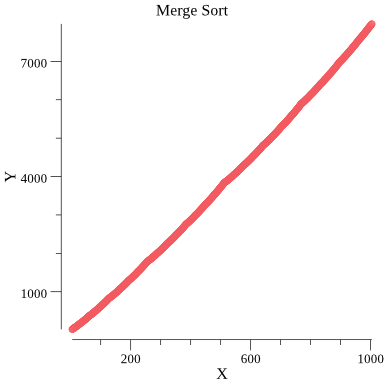
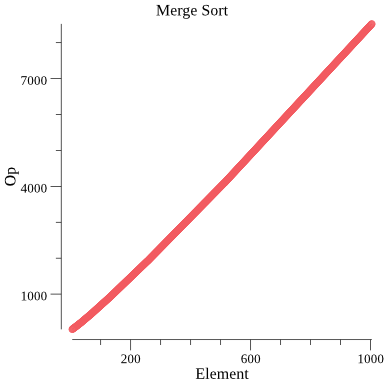
quadratic

diff --git a/quadratic_sort/plot.go b/quadratic_sort/plot.go
@@ -17,7 +17,7 @@ func plotChart(xys plotter.XYs) {
 		panic(err)
 	}
 
-	p.Title.Text = "Merge Sort"
+	p.Title.Text = "Quadratic Sort"
 	p.X.Label.Text = "Element"
 	p.Y.Label.Text = "Op"
 
@@ -27,7 +27,7 @@ func plotChart(xys plotter.XYs) {
 	}
 
 	// Save the plot to a PNG file.
-	if err := p.Save(4*vg.Inch, 4*vg.Inch, "merge_sort.png"); err != nil {
+	if err := p.Save(4*vg.Inch, 4*vg.Inch, "quadratic_sort.png"); err != nil {
 		panic(err)
 	}
 }

diff --git a/quadratic_sort/main.go b/quadratic_sort/main.go
@@ -16,7 +16,7 @@ func main() {
 			a[i], a[j] = a[j], a[i]
 		}
 		elements := len(a)
-		mergeSort(a, elements)
+		quadraticSort(a)
 		plotX = append(plotX, float64(elements))
 		plotY = append(plotY, float64(op))
 	}

diff --git a/quadratic_sort/sort.go b/quadratic_sort/sort.go
@@ -1,0 +1,15 @@
+package main
+
+var op int
+
+func quadraticSort(a []int) []int {
+	for i := range a {
+		for j := range a {
+			op++
+			if a[i] < a[j] {
+				a[i], a[j] = a[j], a[i]
+			}
+		}
+	}
+	return a
+}

diff --git a/quadratic_sort/README.md b/quadratic_sort/README.md
@@ -6,4 +6,4 @@ Graph generated via [gonum-plot](https://github.com/gonum/plot).
 
 Plot:
 
-![merge_sort](./merge_sort.png)
+![quadratic_sort](./quadratic_sort.png)
